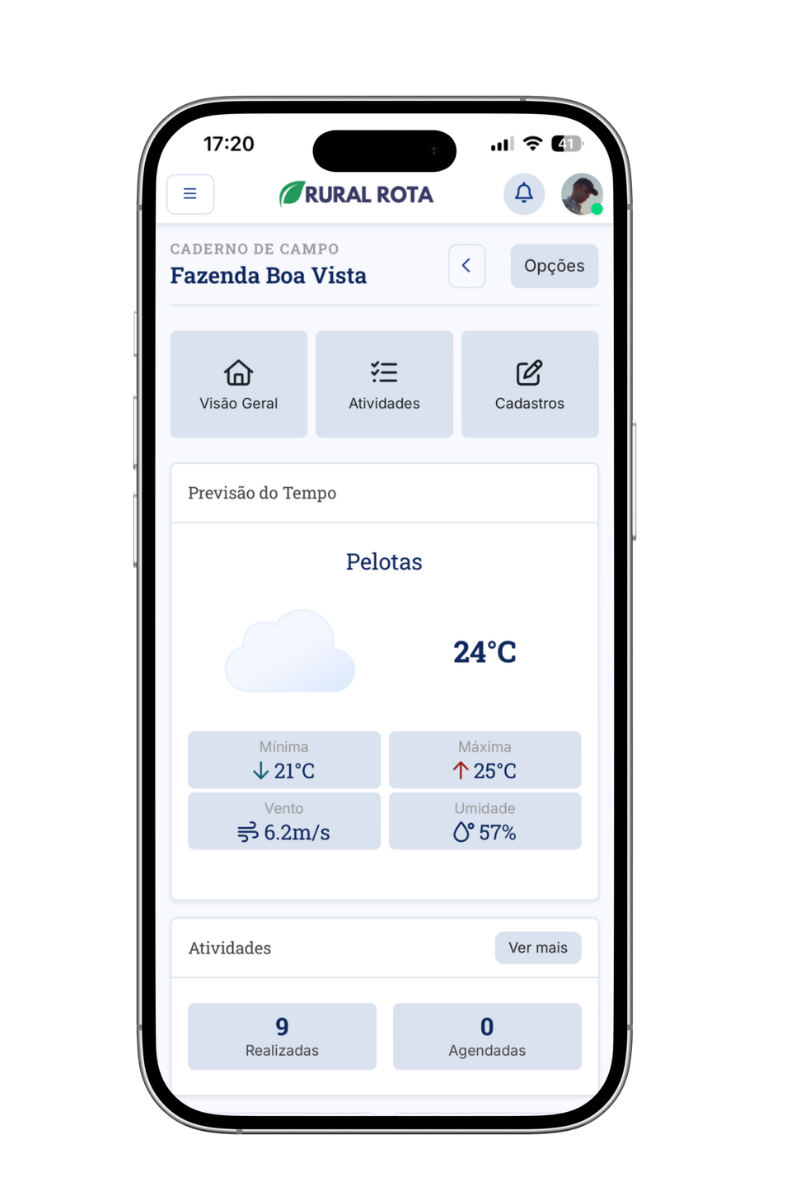
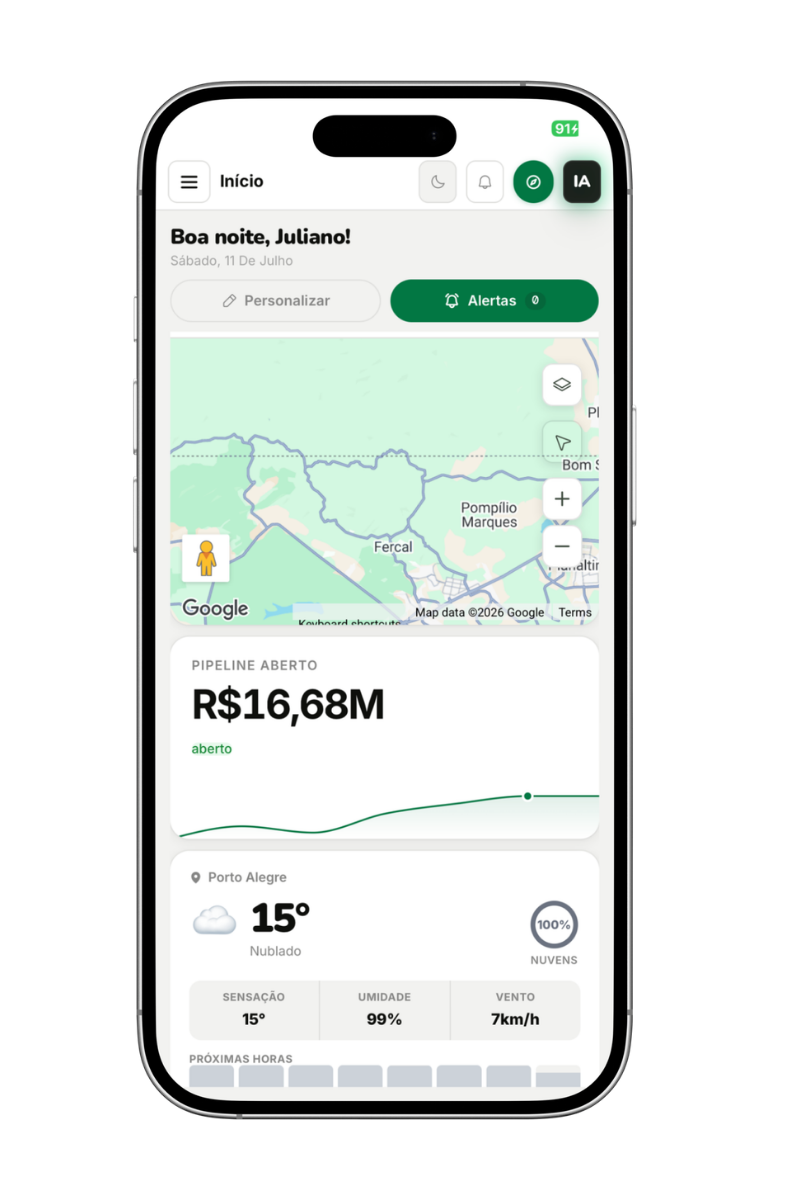
feat: atualiza Rural Rota com rebuild v2 — novo mockup, descrição e timeline
Novo print do app (dashboard com mapa, pipeline R$16M+, clima e IA),
descrição PT/EN refletindo a reconstrução do zero em 2026, marco
'Rebuild do Zero (v2)' na timeline e experiência estendida a Presente.

Changed region(s): [[0.1562, 0.0617, 0.8125, 0.9558]]

diff --git a/src/data.ts b/src/data.ts
@@ -101,7 +101,7 @@ const pt: ContentData = {
     {
       id: 2,
       title: 'Rural Rota - CRM do Agro',
-      description: 'CRM B2B para o agronegócio. 10+ funcionalidades entregues do discovery ao lançamento em 24 meses com clientes adquiridos.',
+      description: 'CRM B2B para o agronegócio, reconstruído do zero em 2026: novo app web e mobile com pipeline de vendas em tempo real, clientes no mapa, clima por região e assistente de IA.',
       link: 'https://ruralrota.com.br',
       emoji: '🚜',
       logo: '/RURAL ROTA LOGO.png',
@@ -111,6 +111,7 @@ const pt: ContentData = {
         { date: 'Janeiro 2024', title: 'Discovery & Posicionamento', description: 'Identificação de lacuna no mercado e definição de estratégia para gestão digital de vendas.' },
         { date: 'Setembro 2024', title: 'Desenvolvimento do Core', description: 'Entrega do CRM de vendas, gestão de equipes externas e caderno de campo digital.' },
         { date: 'Janeiro 2026', title: 'Lançamento & Adoção', description: 'Entrega final dentro do prazo contratual, com 6 grandes empresas clientes adquiridas.' },
+        { date: 'Julho 2026', title: 'Rebuild do Zero (v2)', description: 'Plataforma inteiramente refeita: dashboard personalizável com clientes no mapa, funil com R$16M+ em pipeline, clima em tempo real, alertas e assistente de IA integrado.' },
       ]
     },
     {
@@ -140,8 +141,8 @@ const pt: ContentData = {
       id: 2,
       role: 'Product Manager',
       company: 'Rural Rota - CRM do Agro',
-      period: 'Jan 2024 — Jan 2026',
-      description: 'Liderança completa de produto construindo solução do zero. Discovery, roadmap, gestão de equipes externas e caderno de campo digital. 6 empresas clientes.',
+      period: 'Jan 2024 — Presente',
+      description: 'Liderança completa de produto construindo solução do zero. Discovery, roadmap, gestão de equipes externas e caderno de campo digital. 6 empresas clientes. Em 2026, rebuild completo da plataforma (v2).',
     },
     {
       id: 3,
@@ -250,7 +251,7 @@ const en: ContentData = {
     {
       id: 2,
       title: 'Rural Rota - CRM do Agro',
-      description: 'B2B CRM for agribusiness. 10+ features delivered from discovery to launch in 24 months with acquired clients.',
+      description: 'B2B CRM for agribusiness, rebuilt from scratch in 2026: new web and mobile app with real-time sales pipeline, clients on the map, regional weather and an AI assistant.',
       link: 'https://ruralrota.com.br',
       emoji: '🚜',
       logo: '/RURAL ROTA LOGO.png',
@@ -260,6 +261,7 @@ const en: ContentData = {
         { date: 'January 2024', title: 'Discovery & Positioning', description: 'Identified a market gap and defined the strategy for digital sales management.' },
         { date: 'September 2024', title: 'Core Development', description: 'Delivered the sales CRM, external team management, and digital field notebook.' },
         { date: 'January 2026', title: 'Launch & Adoption', description: 'Final delivery within the contractual deadline, acquiring 6 major corporate clients.' },
+        { date: 'July 2026', title: 'Rebuilt from Scratch (v2)', description: 'Platform fully rebuilt: customizable dashboard with clients on the map, funnel holding R$16M+ in open pipeline, real-time weather, alerts and an integrated AI assistant.' },
       ]
     },
     {
@@ -289,8 +291,8 @@ const en: ContentData = {
       id: 2,
       role: 'Product Manager',
       company: 'Rural Rota - CRM do Agro',
-      period: 'Jan 2024 — Jan 2026',
-      description: 'End-to-end product leadership building a solution from scratch. Discovery, roadmap, external team management, and digital field notebook. Acquired 6 corporate clients.',
+      period: 'Jan 2024 — Present',
+      description: 'End-to-end product leadership building a solution from scratch. Discovery, roadmap, external team management, and digital field notebook. Acquired 6 corporate clients. In 2026, full platform rebuild (v2).',
     },
     {
       id: 3,
